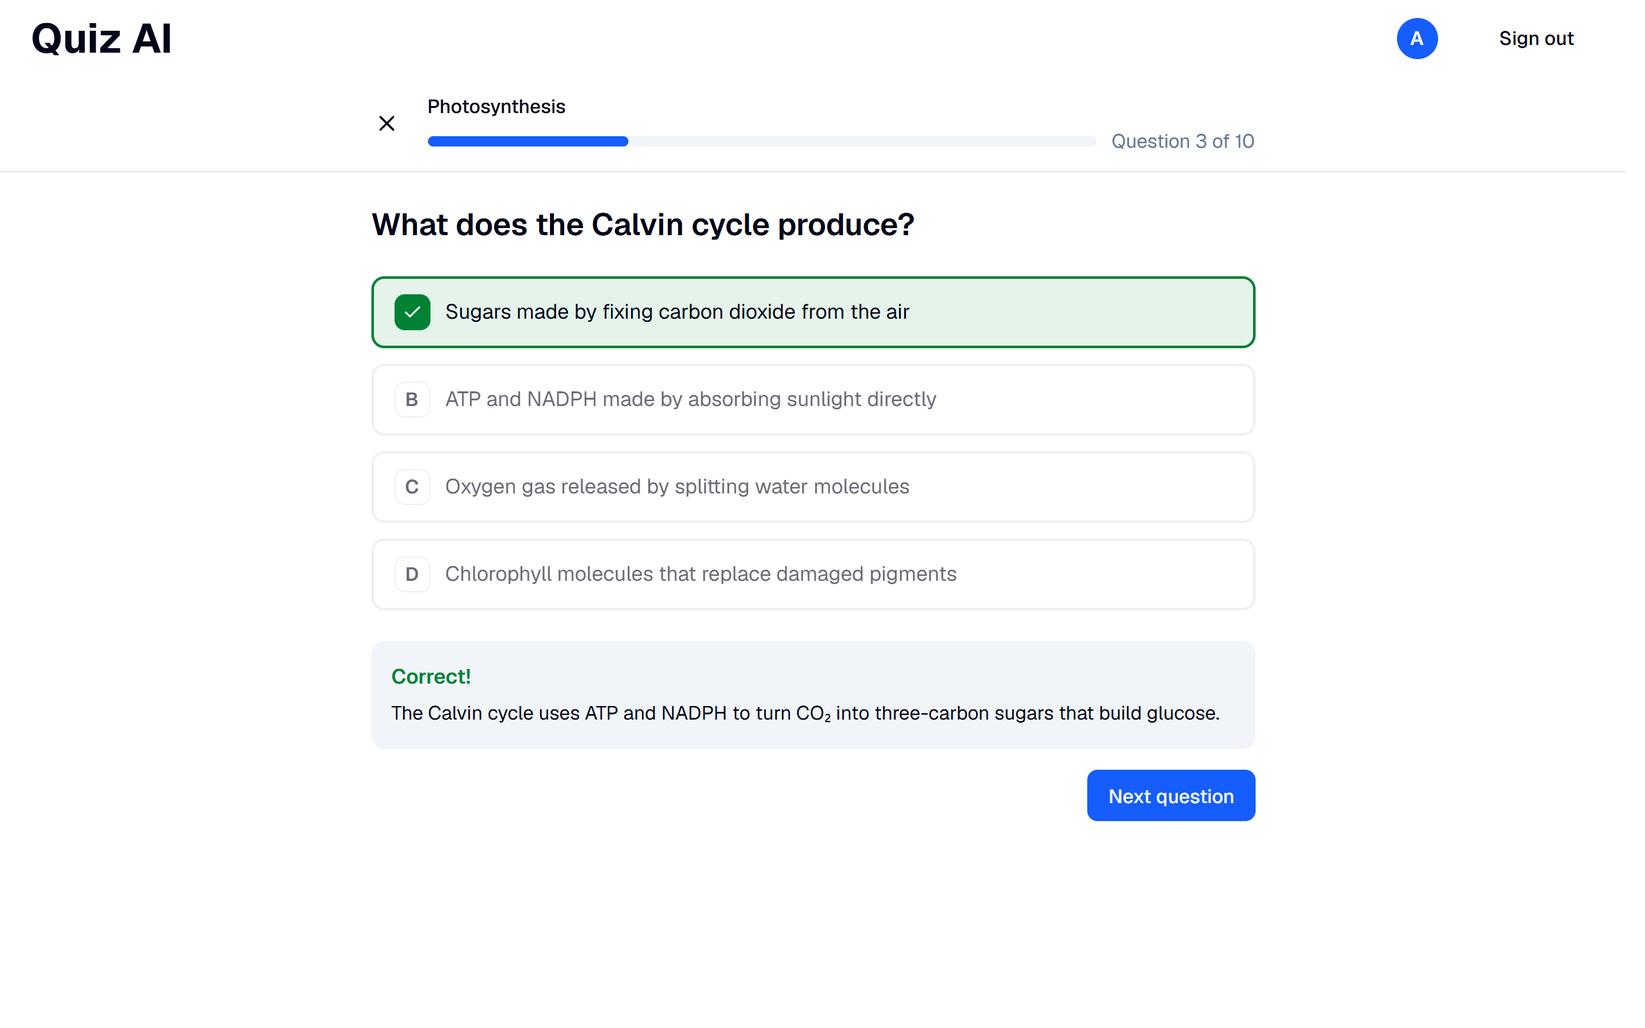
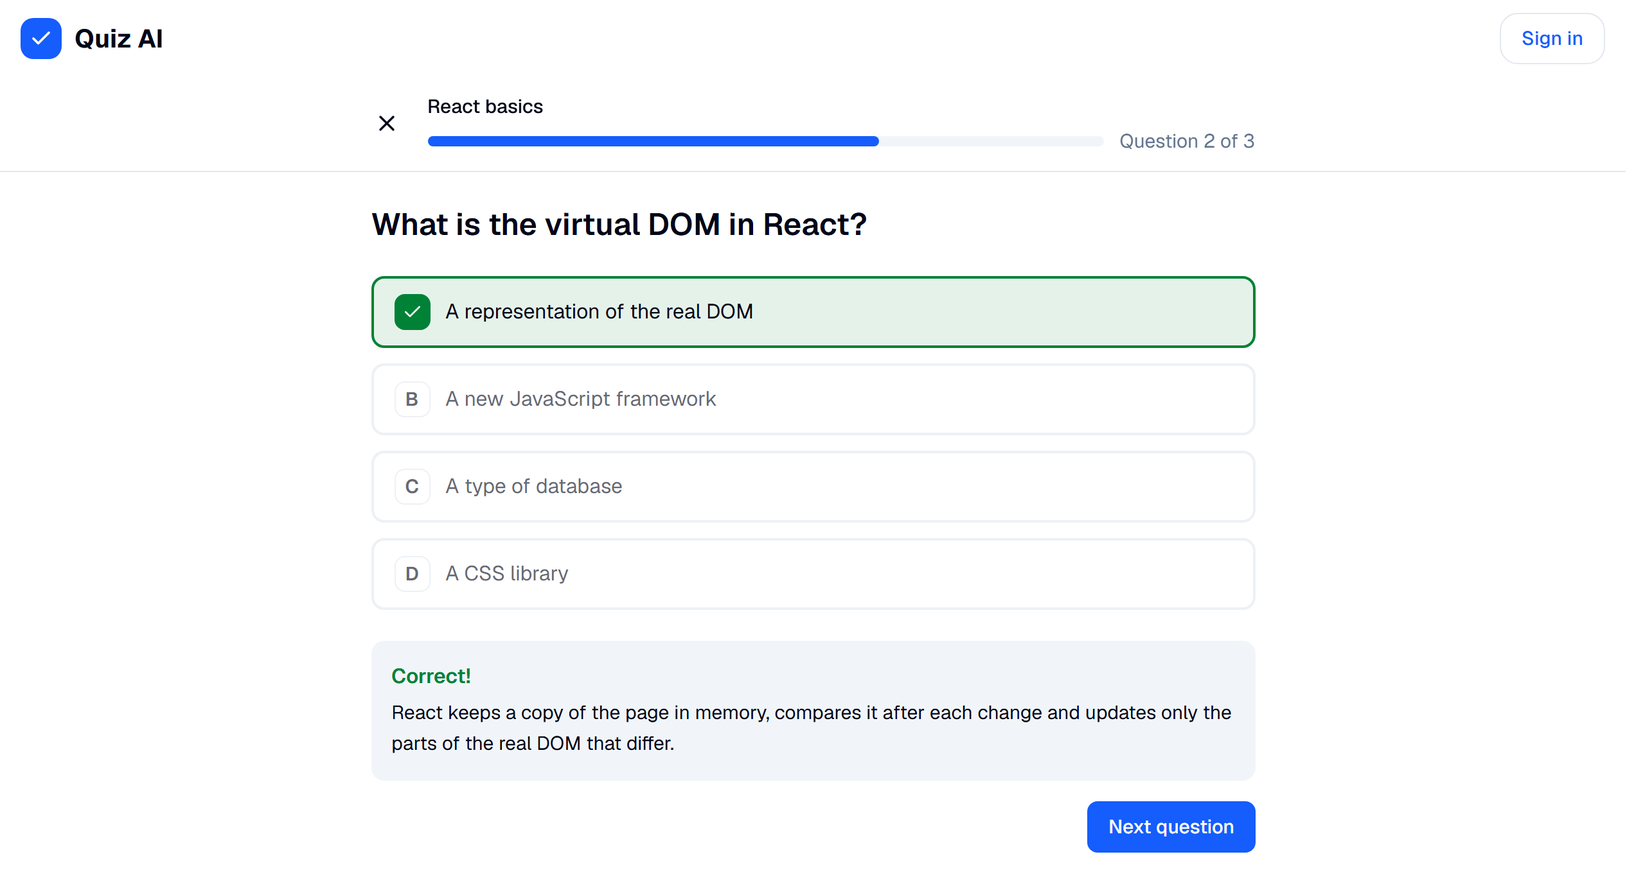
docs: rewrite the README with live screenshots

diff --git a/README.md b/README.md
@@ -1,62 +1,92 @@
+<div align="center">
+
 # Quiz AI
 
+**A full-stack study app that turns course PDFs into AI-generated quizzes, with explanations, exams and progress tracking.**
+
+[![Live demo](https://img.shields.io/badge/Live_demo-quiz.ziadalghawi.com-1660ff)](https://quiz.ziadalghawi.com)
 [![CI](https://github.com/Ziad-Alghawi/nextjs-quiz-ai/actions/workflows/ci.yml/badge.svg?branch=main)](https://github.com/Ziad-Alghawi/nextjs-quiz-ai/actions/workflows/ci.yml)
 [![Docker](https://github.com/Ziad-Alghawi/nextjs-quiz-ai/actions/workflows/docker.yml/badge.svg?branch=main)](https://github.com/Ziad-Alghawi/nextjs-quiz-ai/actions/workflows/docker.yml)
+[![License: MIT](https://img.shields.io/badge/License-MIT-blue)](LICENSE)
 
-A study app that turns course PDFs into multiple-choice quizzes. Students organise their material
-in courses, generate quizzes from chosen chapters with Google Gemini, practise with instant
-feedback and explanations, take course exams and follow their progress over time.
+[Live demo](https://quiz.ziadalghawi.com) · [Features](#features) · [Tech stack](#tech-stack) · [Architecture](#architecture) · [Run locally](#run-locally) · [Tests and CI](#tests-and-ci)
 
-**Live:** https://quiz.ziadalghawi.com ("Try it free" and the sample quiz work without an account;
-payments run in Stripe test mode: card `4242 4242 4242 4242`)
+</div>
+
+## Live demo
+
+**[quiz.ziadalghawi.com](https://quiz.ziadalghawi.com)**
+
+No account is needed: play the [sample quiz](https://quiz.ziadalghawi.com/quizzes/sample), or use
+[Try it free](https://quiz.ziadalghawi.com/try) to generate quizzes from your own PDF. Payments run
+in Stripe test mode (card `4242 4242 4242 4242`).
+
+![Quiz AI landing page: from lecture PDF to exam-ready](docs/screenshots/landing.png)
+
+| Instant feedback with an explanation                             | Results with corrections and a mistakes retry                                 |
+| ---------------------------------------------------------------- | ----------------------------------------------------------------------------- |
+| ![Quiz player after an answer](docs/screenshots/quiz-player.png) | ![Results screen with a review of every answer](docs/screenshots/results.png) |
+
+<details>
+<summary><strong>Watch the demo</strong>: guest trial, a quiz, sign-up that keeps the trial, and a share link</summary>
 
 ![Demo: guest trial, a quiz with explanations, sign-up that keeps the trial, and a share link](docs/demo.gif)
 
 <sub>Recorded on a local production build; the quiz in the demo comes from a mock instead of Gemini.</sub>
 
-`main` is the live site; new work is developed on branches and released at planned checkpoints.
+</details>
 
-![Overview with stats, activity heatmap and quiz list](docs/screenshots/overview.png)
+## Highlights
 
-| Course page                                     | Quiz player                                      |
-| ----------------------------------------------- | ------------------------------------------------ |
-| ![Course page](docs/screenshots/course.png)     | ![Quiz player](docs/screenshots/quiz-player.png) |
-| **Results**                                     | **Course exam**                                  |
-| ![Results screen](docs/screenshots/results.png) | ![Course exam](docs/screenshots/exam.png)        |
+- **A complete product, live in production:** accounts, subscriptions, a guest trial, public share
+  links and a full study workflow, running on Vercel and Supabase.
+- **AI with a controlled cost:** a cheaper model goes first, with one retry on a stronger model.
+  Output is schema-validated, and quotas, a burst limit and a global daily cap bound the spend.
+- **Tested at three levels:** 339 automated tests (unit, real Postgres and Playwright), run on
+  every push.
+- **Security on the server:** ownership checks on every read and write, server-side scoring, and
+  exams that never send the correct answers to the browser.
+- **Production-style delivery:** scanned container images, a Helm chart and GitOps with Argo CD on
+  a local Kubernetes cluster.
 
 ## Features
+
+**Study material and generation**
 
 - **Courses and chapters:** upload PDFs (up to 4 MB each) as chapters of a course. The text is
   extracted and saved; the file itself isn't stored.
 - **AI quiz generation:** pick chapters and a question count; Gemini writes questions with four
-  options and a short explanation each. The output is validated against a schema before it is saved.
+  options and a short explanation each.
 - **Quick quiz:** one PDF straight to a quiz, without setting up a course.
-- **Guest trial:** "Try it free" without an account: up to 3 quizzes from your own PDFs, with 5 or
-  10 questions each. Signing up and then signing in on the same device moves the trial quizzes,
-  their attempts and their quota use to the account. Guests are deleted after 7 days.
-- **Quiz sharing:** a public link for a generated or review quiz, which can be turned off at any
-  time. Anyone with the link can play the quiz without an account (results aren't saved, and the
-  page isn't indexed); signed-in users can save a copy to their "My quizzes" folder.
-- **Review quiz:** mix questions from 2 to 10 generated quizzes of a course. No AI call, so it is
-  instant and doesn't count toward the monthly quota.
-- **Quiz player:** one question at a time, keyboard shortcuts (1–4, Enter), the right answer and
-  its explanation right after each answer.
-- **Results and saved attempts:** score, every answer with the correct one and the explanation.
-  Each attempt is saved and can be reopened later from the course page.
-- **Practice mistakes:** retry only the questions you got wrong in an attempt.
-- **Course exam:** 10, 20 or 30 questions from all quizzes of a course, a question navigator, no
-  feedback until you finish. The server scores it; the browser never receives the correct answers.
-- **Stats:** quizzes, questions, attempts, average score, streaks and an activity heatmap (keyboard
-  accessible, no chart library).
-- **Plans and billing:** Free (10 AI quizzes a month, 5–15 questions) and Pro (50 a month, up to
-  25 questions), sold through Stripe Checkout and managed in the Stripe billing portal.
+- **Review quiz:** mix questions from 2 to 10 generated quizzes of a course. It makes no AI call, so
+  it is instant and doesn't count toward the monthly quota.
+
+**Practice and progress**
+
+- **Quiz player:** one question at a time, keyboard shortcuts (1–4, Enter), and the right answer
+  with its explanation after each answer.
+- **Results and saved attempts:** score, every answer with the correct one, and the explanation.
+  Attempts can be reopened later from the course page.
+- **Practice mistakes:** retry only the questions you got wrong.
+- **Course exam:** 10, 20 or 30 questions from all quizzes of a course, a question navigator, and no
+  feedback until you finish.
+- **Stats:** average score, streaks and an activity heatmap (keyboard accessible, no chart library).
+
+**Accounts, plans and sharing**
+
+- **Guest trial:** up to 3 quizzes without an account. Signing up and then signing in on the same
+  device moves them, their attempts and their quota use to the account.
+- **Quiz sharing:** a public link that can be turned off at any time. Anyone can play without an
+  account, and signed-in users can save a copy.
+- **Plans and billing:** Free (10 AI quizzes a month, 5–15 questions) and Pro (50 a month, up to 25
+  questions), with Stripe Checkout and the Stripe billing portal.
 - **Accounts:** email and password or Google, password reset and email change with 6-digit codes,
-  account deletion that also cancels the subscription.
-- A **sample quiz** to try without an account, light and dark mode, and layouts down to phone width.
+  and account deletion that also cancels the subscription.
+- **Interface:** light and dark mode, and layouts down to phone width.
 
 ## Tech stack
 
-| Area      | Choice                                                                                    |
+| Area      | Technology                                                                                |
 | --------- | ----------------------------------------------------------------------------------------- |
 | Framework | Next.js 16 (App Router, Server Components, Server Actions), React 19                      |
 | Language  | TypeScript (strict), Zod at every boundary                                                |
@@ -94,21 +124,23 @@ flowchart LR
 - **Reads:** Server Components call the services in `src/server/services`.
 - **Writes:** Server Actions validate the input with Zod, check the session and call a service.
 - **Route handlers** only where plain HTTP is needed: PDF upload and generation, the Stripe
-  webhook, auth, `/api/health` and the daily guest cleanup (`/api/cron/cleanup-guests`, called by
-  Vercel Cron in production).
+  webhook, auth, `/api/health` and the daily guest cleanup.
 - **Business logic and every database query** live in the services; components and handlers stay
   thin. Plan limits and question counts have one source of truth, `src/lib/plans.ts`.
-- **Generation:** the cheaper model goes first; only an error, an invalid schema or too few
-  questions trigger one retry on the stronger model. Answers are shuffled in code, and the text
-  sent to the model is capped to bound the cost per quiz.
+- **Generation:** only an error, an invalid schema or too few questions trigger the retry on the
+  stronger model. Answers are shuffled in code, and the text sent to the model is capped to bound
+  the cost per quiz.
 
-### Project structure
+<details>
+<summary><strong>Project structure</strong></summary>
 
 ```text
 src/
   app/                  routes (App Router)
+    (marketing)/        landing page, legal pages
     (auth)/             sign-in, sign-up, password reset
-    (user)/             signed-in pages: overview, courses, attempts, billing, settings
+    (user)/             signed-in pages: overview, courses, billing, settings
+    attempts/           saved attempts and their review
     quizzes/            quiz and exam players, sample quiz
     try/                guest trial
     shared/             shared quizzes, playable without an account
@@ -125,49 +157,10 @@ scripts/migrate.ts      migration runner of the migrations image
 deploy/                 Kubernetes: local Postgres, sealed env, Helm chart, Argo CD apps
 ```
 
-## Run it locally
+</details>
 
-Requirements: Node.js 24 and Docker (the database runs in a container).
-
-```bash
-npm install
-cp .env.example .env     # fill in the values, see the table below
-npm run db:up            # Postgres 17 in Docker
-npm run db:migrate       # apply the migrations in drizzle/
-npm run dev              # http://localhost:3000
-```
-
-With `EMAIL_TRANSPORT=console` (the default), emails such as reset and email-change codes are
-printed to the terminal. For the
-Stripe webhook, run `stripe listen --forward-to localhost:3000/api/stripe/webhook` and put the
-secret it prints into `STRIPE_WEBHOOK_SECRET`.
-
-### Environment variables
-
-They are validated with Zod when the server starts (`src/lib/env.ts`); the SMTP variables are
-required only with `EMAIL_TRANSPORT=smtp`.
-
-| Name                     | Purpose                                           |
-| ------------------------ | ------------------------------------------------- |
-| `DATABASE_URL`           | PostgreSQL connection                             |
-| `AUTH_SECRET`            | Signs session cookies                             |
-| `GOOGLE_CLIENT_ID`       | Google sign-in                                    |
-| `GOOGLE_CLIENT_SECRET`   | Google sign-in                                    |
-| `GEMINI_API_KEY`         | Quiz generation                                   |
-| `STRIPE_SECRET_KEY`      | Checkout and billing portal                       |
-| `STRIPE_WEBHOOK_SECRET`  | Verifies Stripe webhook signatures                |
-| `STRIPE_PRICE_ID`        | The Pro monthly price (`price_…`)                 |
-| `STRIPE_YEARLY_PRICE_ID` | The Pro yearly price (`price_…`)                  |
-| `APP_URL`                | Public base URL (auth and Stripe return links)    |
-| `CRON_SECRET`            | Optional: lets the daily guest cleanup run        |
-| `EMAIL_TRANSPORT`        | `console` (default) or `smtp`                     |
-| `SMTP_HOST`              | SMTP server (only with `EMAIL_TRANSPORT=smtp`)    |
-| `SMTP_PORT`              | SMTP port (only with `EMAIL_TRANSPORT=smtp`)      |
-| `SMTP_USER`              | SMTP account (only with `EMAIL_TRANSPORT=smtp`)   |
-| `SMTP_PASSWORD`          | SMTP password (only with `EMAIL_TRANSPORT=smtp`)  |
-| `EMAIL_FROM`             | Sender address (only with `EMAIL_TRANSPORT=smtp`) |
-
-## Security and cost control
+<details>
+<summary><strong>Security and cost control</strong></summary>
 
 - **Ownership on every read and write:** someone else's course, quiz or attempt is a 404, the same
   as a missing one, so ids can't be probed.
@@ -185,31 +178,78 @@ required only with `EMAIL_TRANSPORT=smtp`.
 - **Guest trial:** guests can't open account pages or actions (courses, billing, settings,
   sharing) and can't change an email, password or profile. Each guest gets 3 quizzes in total, all
   guests together 5 per day (part of the daily cap), documents are cut at 50,000 characters, and an
-  IP address can start 3 guest sessions per hour. The daily guest counter is one row updated in the
-  same transaction as the global cap, so new guests and parallel requests can't get past it.
+  IP address can start 3 guest sessions per hour. Guests are deleted after 7 days.
 - **Shared quizzes:** a link holds 24 random bytes, not the quiz id; a link that was turned off is
-  a 404; exams can't be shared.
+  a 404; exams can't be shared; shared pages aren't indexed.
 - **Cleanup:** the guest cleanup route runs only with `CRON_SECRET` as a Bearer token (compared in
   constant time) and answers 401 without it.
 
-## Tests and quality checks
+</details>
 
-- **Unit tests** (Vitest): validation schemas, scoring, exam and review selection, model routing,
-  error mapping, the session helper, the health route and the Stripe webhook (signed payloads).
-- **Database tests** against a real Postgres: quotas under parallel requests, courses, chapters,
-  reviews, exams, attempts, stats, billing, auth rules, sharing and the guest trial.
-- **End-to-end tests** (Playwright): sign-up and sign-in, course and quiz flows, the sample quiz,
-  sharing, saving a copy and the guest trial, against a production build on its own database.
-  Quiz generation is mocked and the Gemini and Stripe keys are invalid, so a test can't cost money.
-  One account and one guest are signed in once per run and reused, because sign-ins are
-  rate-limited per IP address.
-- **CI** (GitHub Actions, on every push and pull request): lint, format check, typecheck,
-  unused-code check (knip), unit tests, migrations plus database tests against Postgres 17, a
-  production build, `helm lint` plus `helm template` for the chart, and the end-to-end tests in
-  their own job.
-- **Docker workflow:** builds and scans the images; see
-  [Containers and Kubernetes](#containers-and-kubernetes).
-- **Duplication** is checked manually with jscpd, at the end of each development phase.
+## Run locally
+
+Requirements: Node.js 24 and Docker (the database runs in a container).
+
+```bash
+git clone https://github.com/Ziad-Alghawi/nextjs-quiz-ai.git
+cd nextjs-quiz-ai
+npm install
+cp .env.example .env     # then fill in the required values, see below
+npm run db:up            # Postgres 17 in Docker
+npm run db:migrate       # apply the migrations in drizzle/
+npm run dev              # http://localhost:3000
+```
+
+The server validates its environment with Zod when it starts (`src/lib/env.ts`) and stops if a
+required value is empty, so `.env` needs these values before the first run:
+
+| Name                     | Purpose                            | To try the app without real keys |
+| ------------------------ | ---------------------------------- | -------------------------------- |
+| `AUTH_SECRET`            | Signs session cookies              | `openssl rand -base64 32`        |
+| `GOOGLE_CLIENT_ID`       | Google sign-in                     | any text                         |
+| `GOOGLE_CLIENT_SECRET`   | Google sign-in                     | any text                         |
+| `GEMINI_API_KEY`         | Quiz generation                    | any text                         |
+| `STRIPE_SECRET_KEY`      | Checkout and billing portal        | any text                         |
+| `STRIPE_WEBHOOK_SECRET`  | Verifies Stripe webhook signatures | any text                         |
+| `STRIPE_PRICE_ID`        | The Pro monthly price              | `price_placeholder`              |
+| `STRIPE_YEARLY_PRICE_ID` | The Pro yearly price               | `price_placeholder`              |
+
+With placeholders, email sign-up, courses and the sample quiz work. Real keys are needed only for
+the features that call those services: Gemini for generation, Stripe for checkout, Google for
+Google sign-in.
+
+`DATABASE_URL`, `APP_URL` and `EMAIL_TRANSPORT` already have working local values in
+`.env.example`. With `EMAIL_TRANSPORT=console`, emails such as reset codes are printed to the
+terminal. `SMTP_HOST`, `SMTP_PORT`, `SMTP_USER`, `SMTP_PASSWORD` and `EMAIL_FROM` are required only
+with `EMAIL_TRANSPORT=smtp`, and `CRON_SECRET` (optional, 32+ characters) turns on the guest
+cleanup route.
+
+For Stripe webhooks, run `stripe listen --forward-to localhost:3000/api/stripe/webhook` and put the
+secret it prints into `STRIPE_WEBHOOK_SECRET`.
+
+## Tests and CI
+
+339 tests pass on `main`:
+
+| Level      | Tool       | Tests | Covers                                                                                                        |
+| ---------- | ---------- | ----- | ------------------------------------------------------------------------------------------------------------- |
+| Unit       | Vitest     | 170   | Validation schemas, scoring, exam and review selection, model routing, error mapping, Stripe webhook          |
+| Database   | Vitest     | 147   | Real Postgres: quotas under parallel requests, courses, attempts, stats, billing, auth rules, sharing, guests |
+| End-to-end | Playwright | 22    | Sign-up and sign-in, course and quiz flows, sample quiz, sharing, saving a copy, guest trial                  |
+
+The end-to-end tests run against a production build on their own database. Quiz generation is
+mocked and the Gemini and Stripe keys are invalid, so a test can't cost money.
+
+**GitHub Actions** runs on every push and pull request:
+
+| Workflow | Job          | What it does                                                                                                      |
+| -------- | ------------ | ----------------------------------------------------------------------------------------------------------------- |
+| CI       | `check`      | Lint, format check, typecheck, unused-code check (knip), unit tests, migrations, database tests, production build |
+| CI       | `e2e`        | Playwright tests against a production build and Postgres 17                                                       |
+| CI       | `helm`       | `helm lint --strict` and `helm template` for the chart                                                            |
+| Docker   | `build-scan` | Builds both images and scans them with Trivy (pull requests and pushes to `develop` and `main`)                   |
+
+Run the same checks locally:
 
 ```bash
 npm run lint
@@ -223,10 +263,11 @@ npm run build
 npx jscpd@4 src          # duplication report (manual, not in CI)
 ```
 
-## Containers and Kubernetes
+## Deployment
 
-Production runs on Vercel and Supabase. The same app is also packaged as container images and
-deployed with GitOps to a local Kubernetes cluster (kind).
+Production runs on **Vercel and Supabase**: `main` is the live site, and new work goes through pull
+requests into `develop`. The same app is also packaged as container images and deployed with
+GitOps to a local Kubernetes cluster (kind).
 
 ```mermaid
 flowchart LR
@@ -252,29 +293,28 @@ flowchart LR
   GHCR -->|images| Job
 ```
 
-| Image                                         | Contents                                                        |
-| --------------------------------------------- | --------------------------------------------------------------- |
-| `ghcr.io/ziad-alghawi/nextjs-quiz-ai`         | Next.js standalone server, health check on `/api/health`        |
-| `ghcr.io/ziad-alghawi/nextjs-quiz-ai-migrate` | `scripts/migrate.ts` and `drizzle/` (drizzle-orm's `migrate()`) |
-
 - **Images:** multi-stage build on a pinned `node:24-alpine` tag, built without secrets, run as
   the non-root `node` user, no package managers in the final images.
-- **Docker workflow:** pull requests build both images and run Trivy, failing on fixable
-  CRITICAL/HIGH findings; all findings go to the Security tab. Merges into `develop` and `main`
-  push the images, tagged `sha-<commit>` and with the branch name (`latest` from `main`). Every
+- **Docker workflow:** Trivy fails pull requests on fixable CRITICAL/HIGH findings, and all
+  findings go to the Security tab. Merges into `develop` and `main` push the images to GHCR. Every
   action is pinned to a commit SHA, and each job gets only the permissions it needs.
-- **Helm chart** (`deploy/helm/quiz-ai`): a migrations Job runs before every install and upgrade
-  and waits for the database. Pods use a read-only root filesystem and drop all capabilities.
-  Readiness checks `/api/health`, liveness only the port, so a database outage doesn't restart
-  pods. A CronJob calls the guest cleanup route once a day through the Service, with
-  `CRON_SECRET` from the app's Secret; without it the job fails visibly.
+- **Helm chart** (`deploy/helm/quiz-ai`): a migrations Job runs before every install and upgrade.
+  Pods use a read-only root filesystem and drop all capabilities. Readiness checks `/api/health`,
+  liveness only the port, so a database outage doesn't restart pods. A CronJob runs the guest
+  cleanup once a day.
 - **Argo CD** (`deploy/argocd`): an AppProject limited to this repository and the `quiz-ai`
   namespace, and two Applications that follow `develop` with automated sync, prune and self-heal.
 - **Secrets:** the app's environment is committed as a SealedSecret
   (`deploy/k8s/quiz-ai-env.sealed.yaml`); only the Sealed Secrets controller in the cluster can
   decrypt it. It holds local values only.
 
-### Docker Compose
+| Image                                         | Contents                                                        |
+| --------------------------------------------- | --------------------------------------------------------------- |
+| `ghcr.io/ziad-alghawi/nextjs-quiz-ai`         | Next.js standalone server, health check on `/api/health`        |
+| `ghcr.io/ziad-alghawi/nextjs-quiz-ai-migrate` | `scripts/migrate.ts` and `drizzle/` (drizzle-orm's `migrate()`) |
+
+<details>
+<summary><strong>Run with Docker Compose</strong></summary>
 
 ```bash
 cp .env.example .env     # the database URL, APP_URL and email are set by docker-compose.yml
@@ -285,7 +325,10 @@ docker compose --profile app down
 The keys in `.env` only need values in the right format (e.g. `price_…`) for the pages to work;
 real keys are needed only for the features that call those services.
 
-### Kubernetes with kind
+</details>
+
+<details>
+<summary><strong>Run on Kubernetes with kind</strong></summary>
 
 Requirements: Docker, [kind](https://kind.sigs.k8s.io), kubectl and Helm. Every command names the
 cluster's context, so nothing goes to another cluster by mistake.
@@ -349,15 +392,12 @@ then https://localhost:8080 as `admin` with the password from
 
 Remove everything with `kind delete cluster --name quiz-ai`.
 
-## Next
-
-- Run the Kubernetes setup on a hosted cluster with a public domain and HTTPS
-- NetworkPolicies between the app, the database and the cleanup job
-- Metrics and dashboards with Prometheus and Grafana
+</details>
 
 ## Author
 
-Built by Ziad Alghawi ([GitHub](https://github.com/Ziad-Alghawi)).
+Built by **Ziad Alghawi**: [GitHub](https://github.com/Ziad-Alghawi) ·
+[LinkedIn](https://www.linkedin.com/in/ziad-alghawi-179726289)
 
 ## License
 
